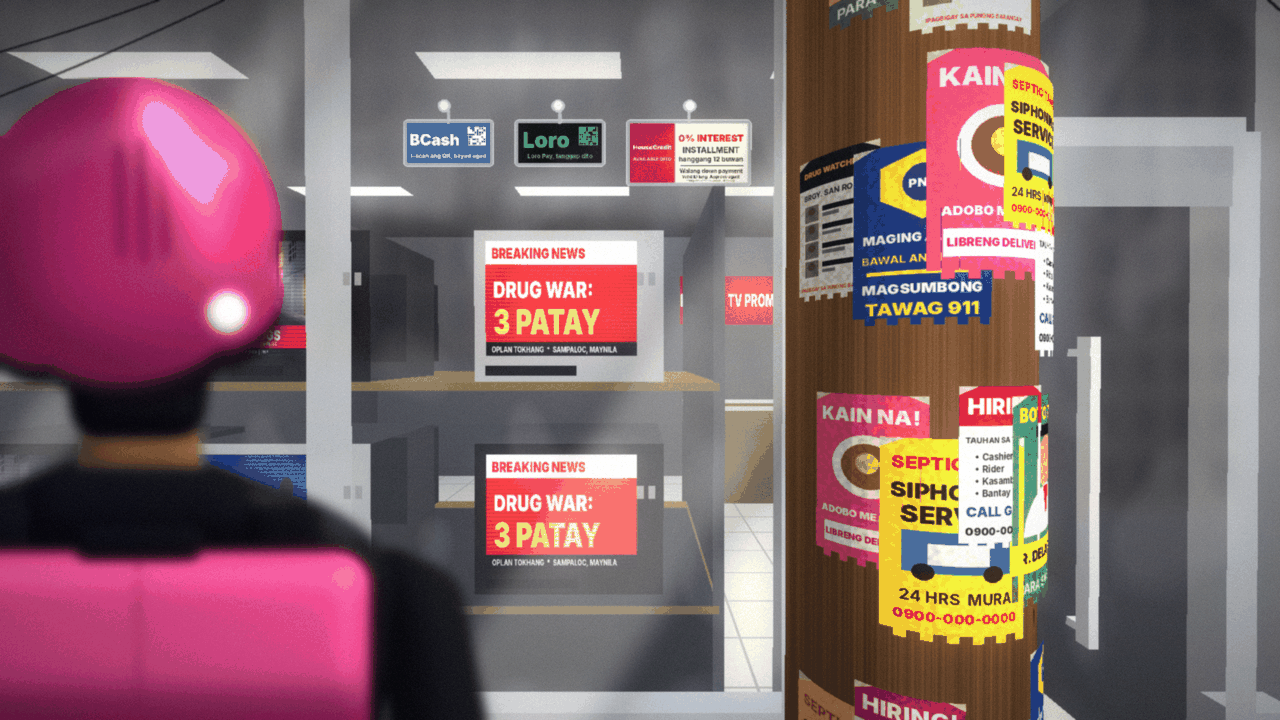
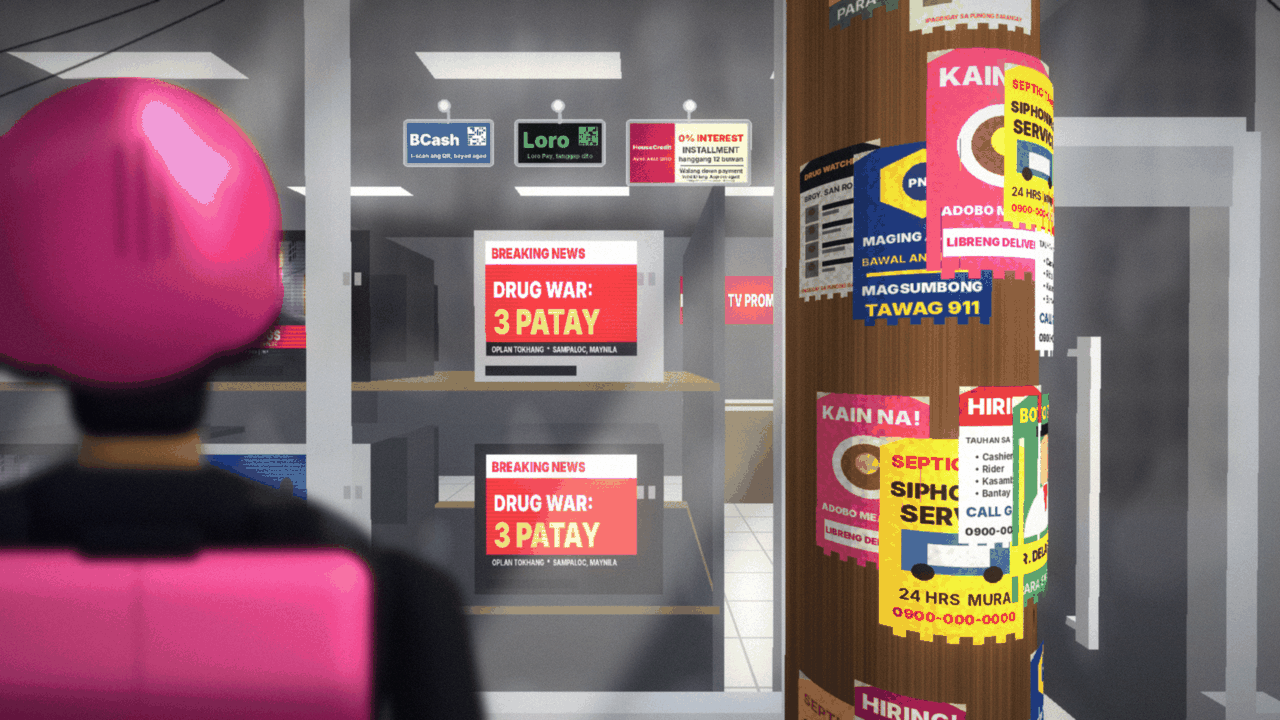
fix(art): remove the white sticker circle from Peter's helmet in the TV news frame
Claude-Session: https://claude.ai/code/session_018qtt7uTeVSGsnvQanUjafP

diff --git a/tools/rider_back.py b/tools/rider_back.py
@@ -240,7 +240,7 @@ def rider_back(out_scale: float = 1.0) -> Image.Image:
     handle = _round_rect(254, 322, 346, 346, 10)
     c.alpha_composite(_solid(handle, (20, 20, 25), bulge=8, ambient=0.3, seed=23))
 
-    # ---- the helmet: glossy pink, tipped up and a little left, with a rim, a vent and a sticker
+    # ---- the helmet: glossy pink, tipped up and a little left, with a rim and a vent
     hair = _poly([(246, 196), (354, 196), (346, 258), (254, 258)], smooth=10)
     c.alpha_composite(_solid(hair, HAIR, bulge=18, ambient=0.4, shine=0.12, glossy=6, seed=24, fabric=0.06))
     helmet = _union(_ellipse(300, 116, 112, 116), _round_rect(190, 120, 410, 214, 60))
@@ -259,8 +259,6 @@ def rider_back(out_scale: float = 1.0) -> Image.Image:
     c.alpha_composite(_solid(trim, (30, 12, 24), bulge=6, ambient=0.4, shine=0.2, seed=26))
     vent = _round_rect(272, 34, 332, 138, 16).rotate(5, center=(300 * SUPER, 230 * SUPER), resample=Image.BICUBIC)
     c = _strokes(c, [[(286, 48), (288, 128)], [(302, 44), (304, 132)], [(318, 48), (320, 128)]], (100, 14, 58), 5, 1.4, 0.75, vent)
-    sticker = _ellipse(364, 168, 15, 15)
-    c.alpha_composite(_solid(sticker, (250, 250, 250), bulge=5, ambient=0.8, shine=0.3, seed=27, fabric=0.0))
 
     # ---- finish: a soft warm bounce from the pavement on the lower edge, then down to size
     px = np.asarray(c).astype(np.float32)
